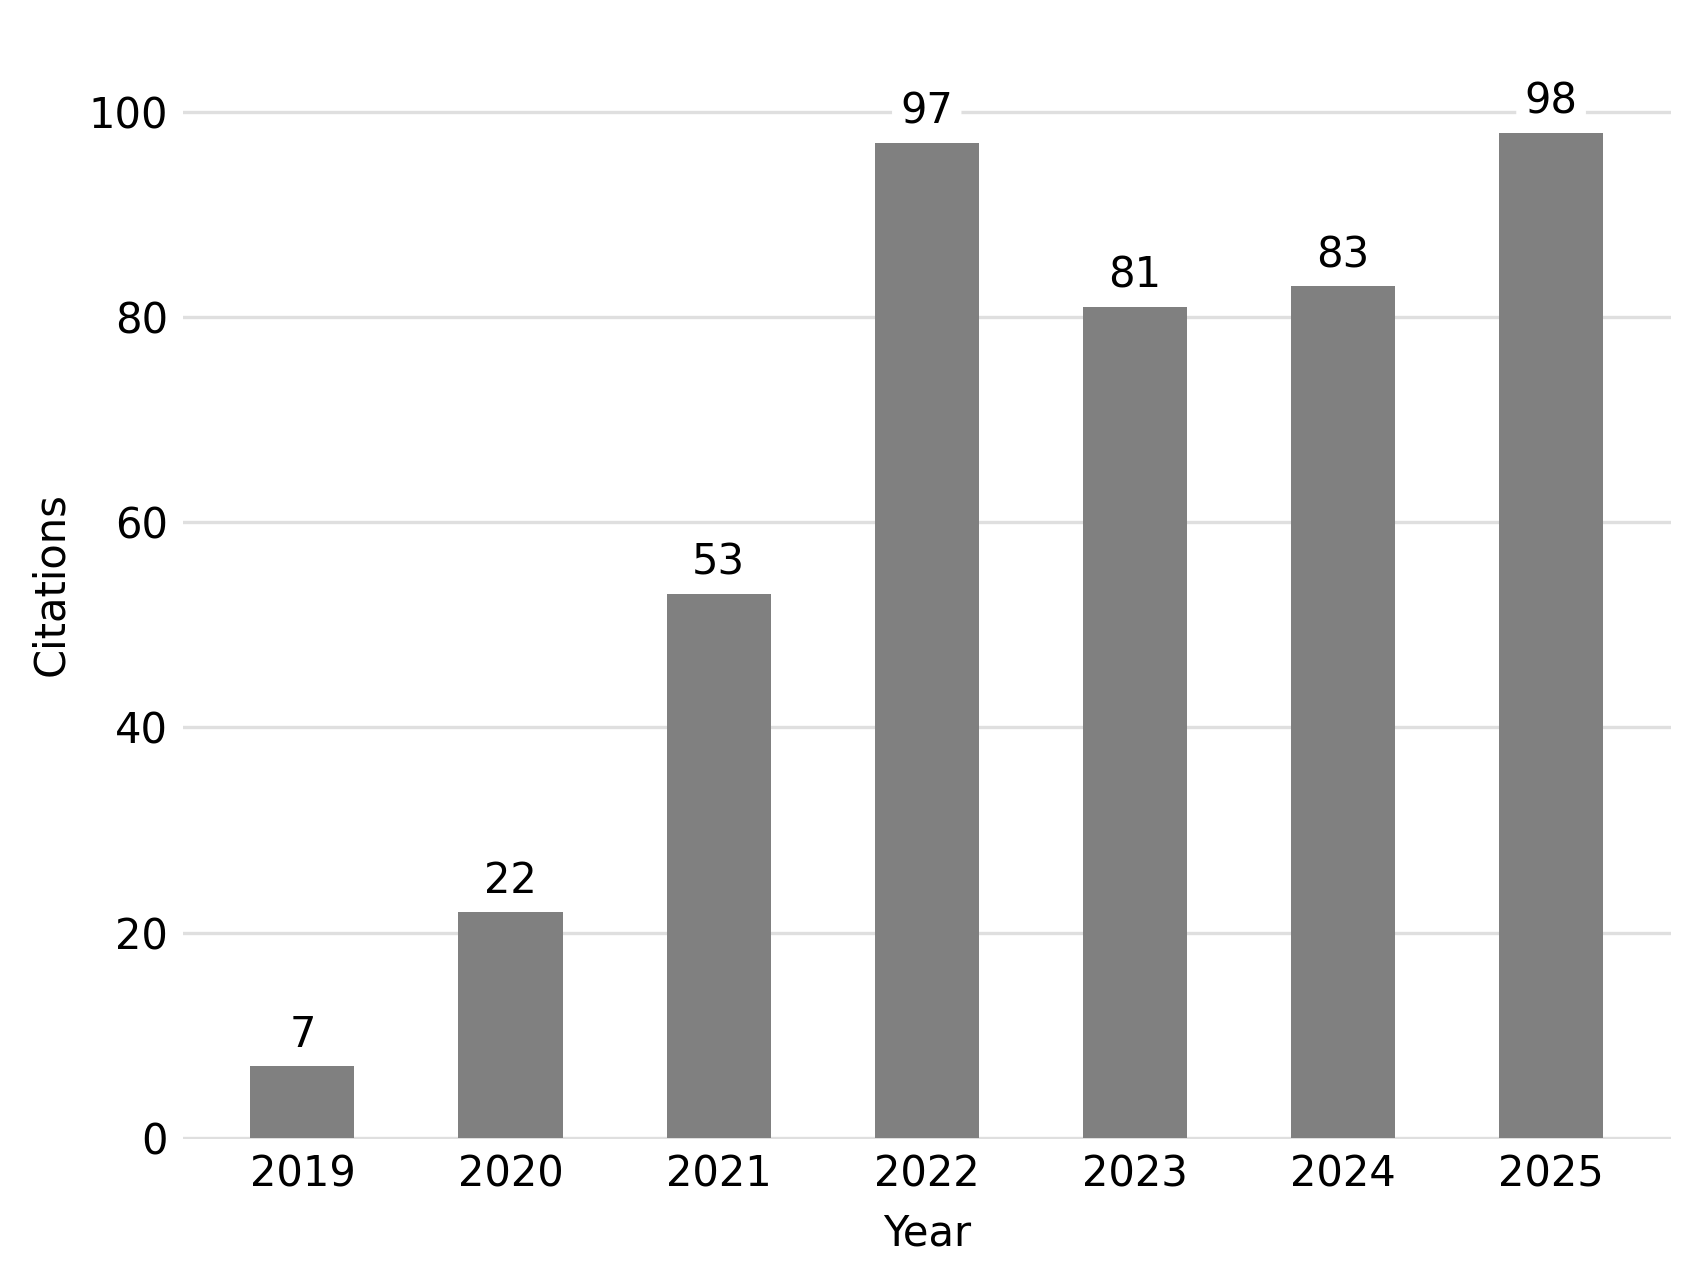
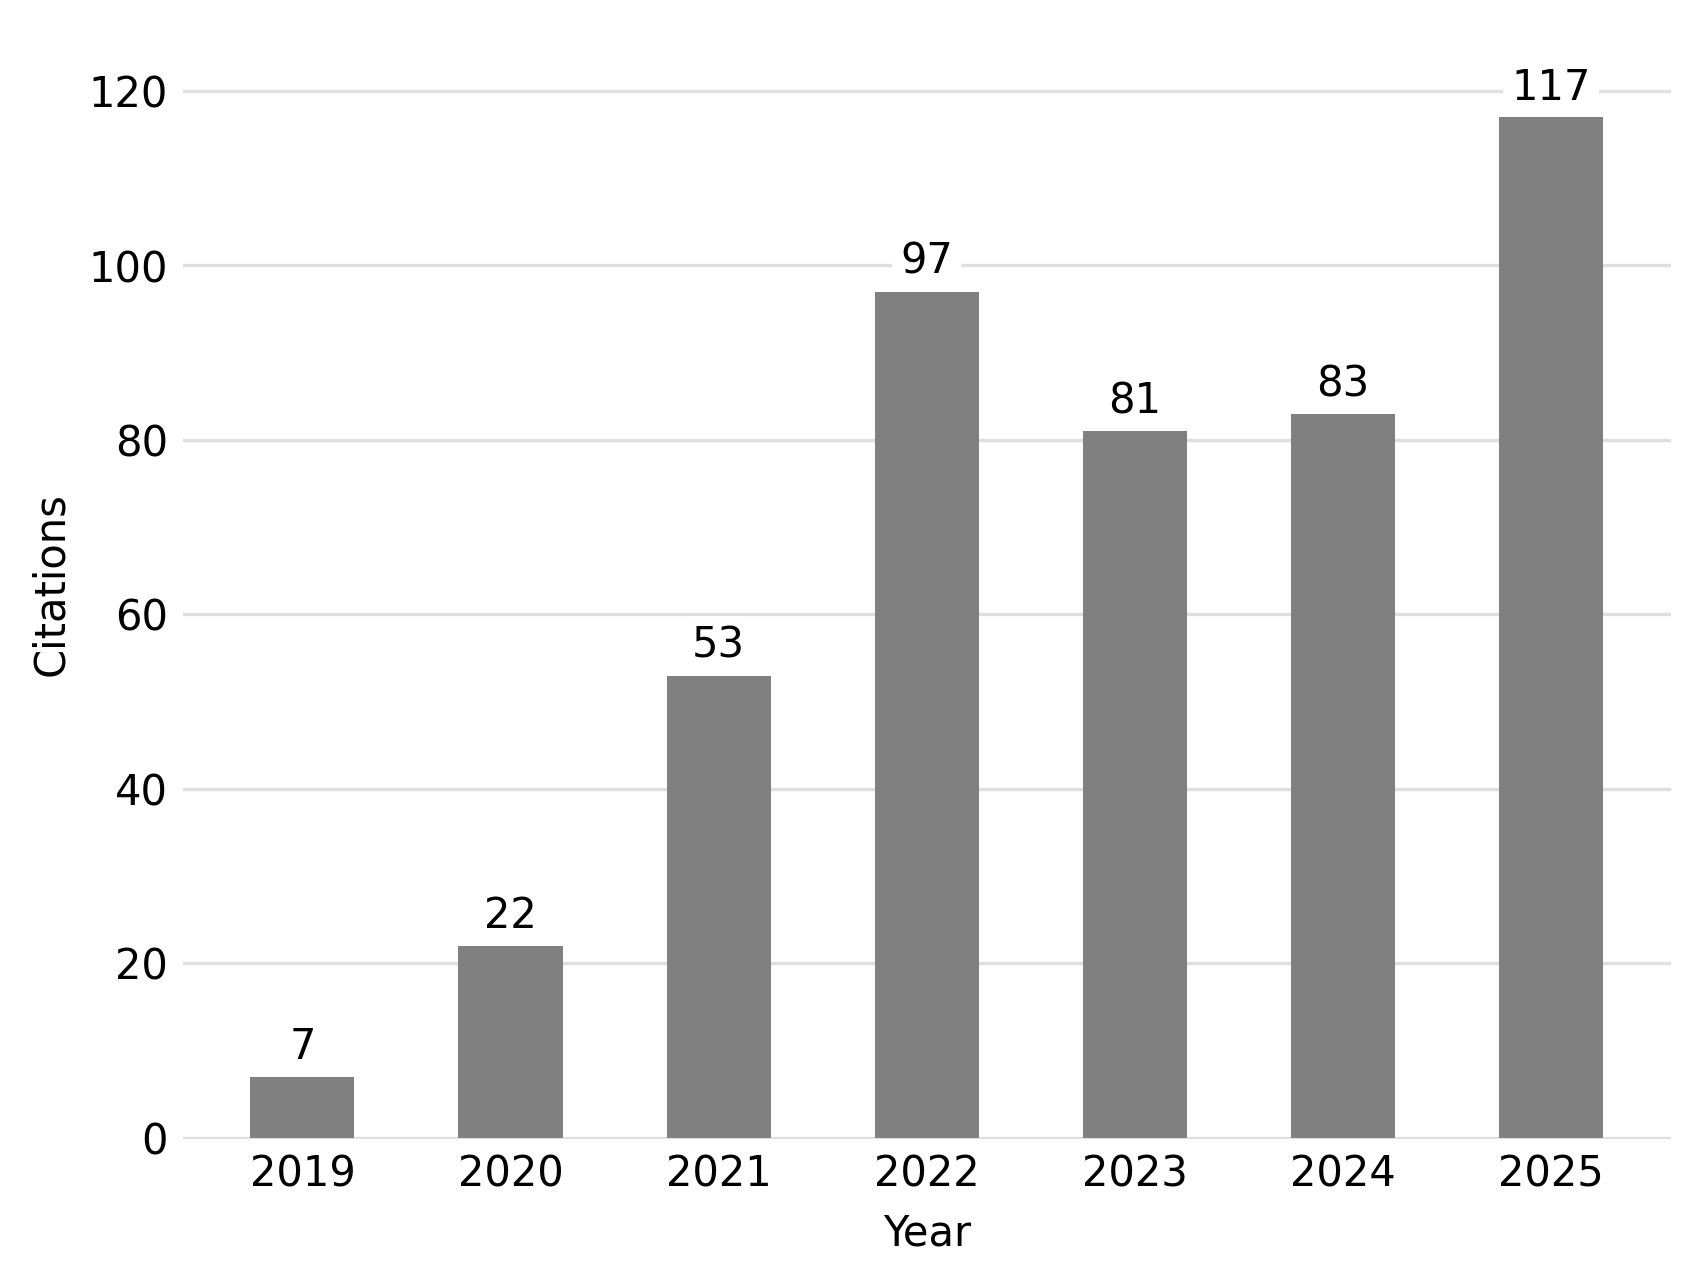
enable easier manual updates

diff --git a/run_citation_metrics.py b/run_citation_metrics.py
@@ -34,9 +34,13 @@ def save_to_csv(citations_per_year, total_citations, h_index, i10_index):
     df = pd.DataFrame(list(citations_per_year.items()), columns=['Year', 'Citations'])
     df.to_csv('data/annual_citations.csv', index=False)
 
-def plot_citations(citations_per_year):
+def plot_citations(citations_per_year, from_csv=False):
     # Function to generate bar plot
-    df = pd.DataFrame(list(citations_per_year.items()), columns=['Year', 'Citations'])
+    if from_csv:
+        df = pd.read_csv('data/annual_citations.csv')  # read from CSV
+    else:
+        # default, generate the DF from the dict
+        df = pd.DataFrame(list(citations_per_year.items()), columns=['Year', 'Citations'])
     years = df.Year
     citations = df.Citations
     # years = list(citations_per_year.keys())
